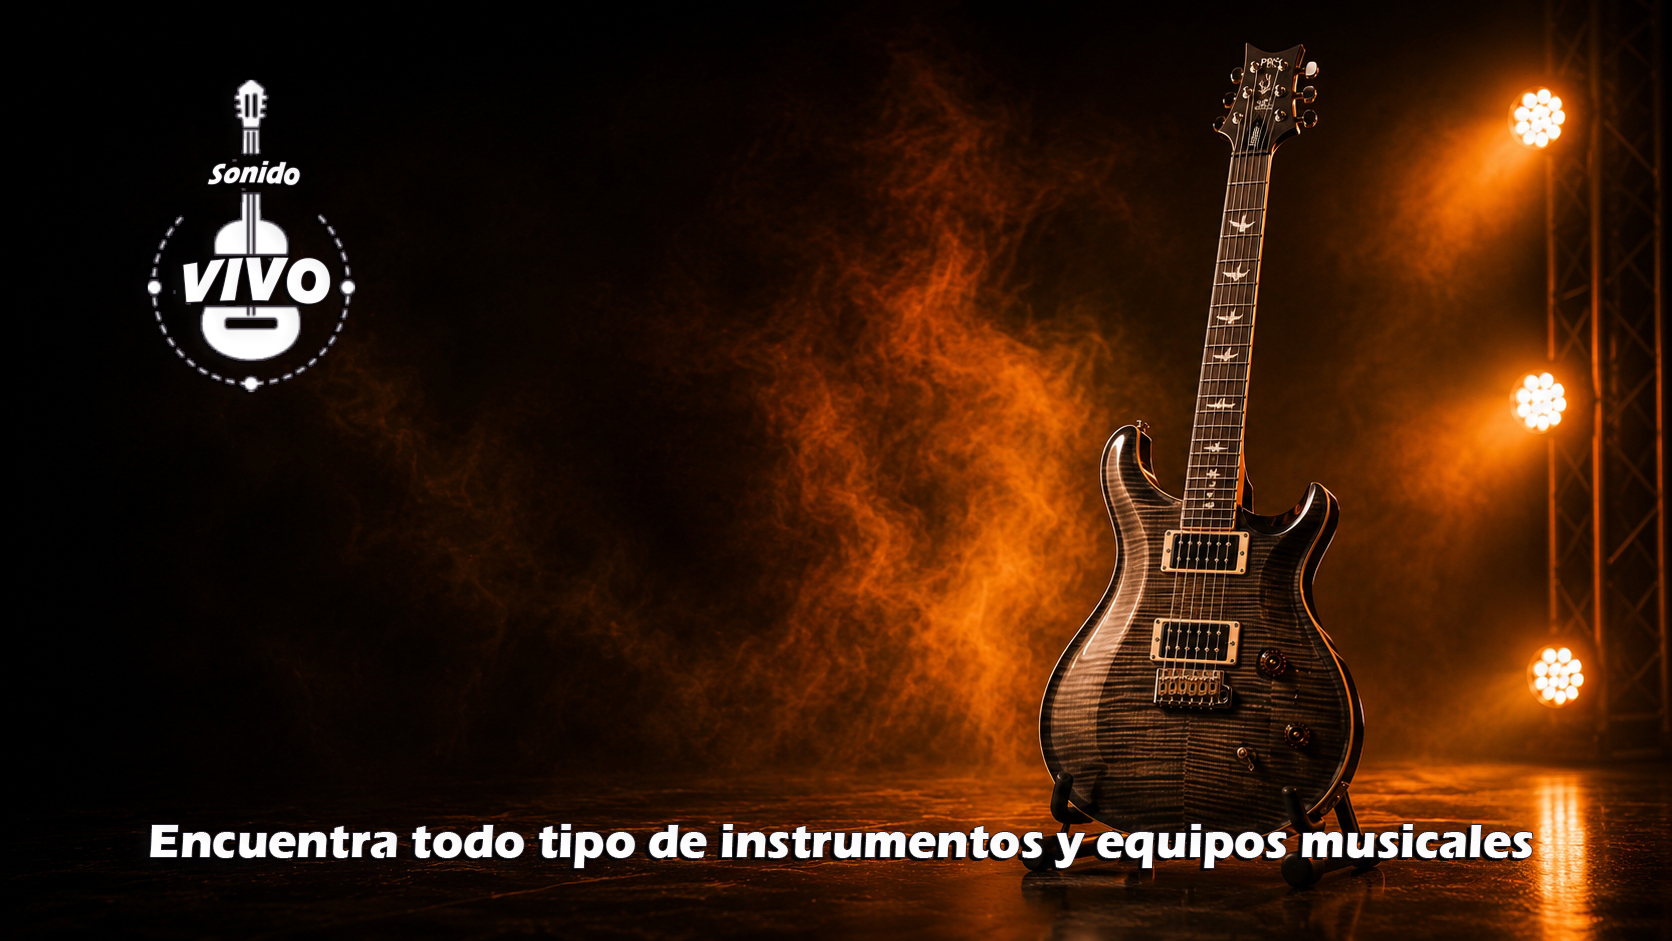
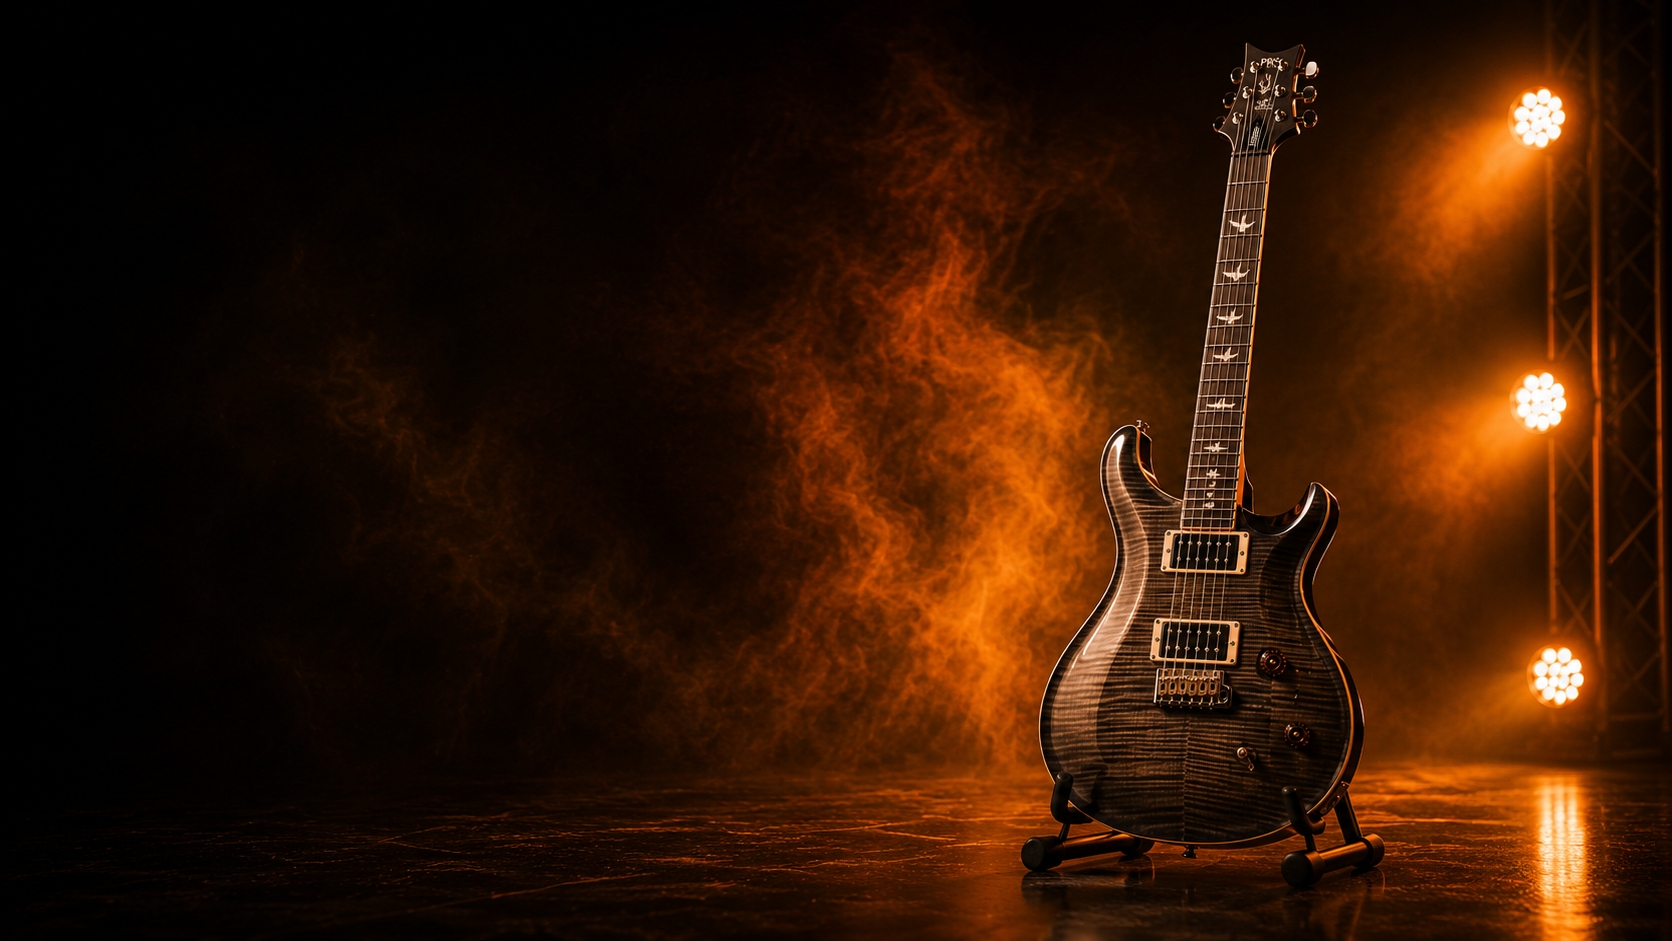
cambio de imagen

Changed region(s): [[0.0933, 0.8629, 0.933, 0.9245], [0.0933, 0.0925, 0.2177, 0.4315]]

diff --git a/main.html b/main.html
@@ -56,7 +56,7 @@
      data-bs-interval="3000">
 <div class="carousel-inner">
     <div class="carousel-item active">
-      <img src="imagenes/carrusel/instrumentos.avif" class="d-block w-100" height="800" alt="no disponible" >
+      <img src="imagenes/carrusel/b.avif" class="d-block w-100" height="800" alt="no disponible" >
       <div class="carousel-text">Aprovecha Septiembre con descuentos de hasta 40%</div>
     </div>
 
@@ -132,7 +132,7 @@
         </div>    
         <div class="col" style="font-style: oblique; color: rgb(110, 92, 75);">
             <div class="card" style="width: 18rem;">
-            <img src="imagenes/cards/6.jpg" class="card-img-top" alt="...">
+            <img src="imagenes/cards/b.jpg" class="card-img-top" alt="...">
             <div class="card-body">
                 <h5 class="card-title">Guitarra Eléctrica Stratocaster Squier Affinity Strat</h5>
                 <p>Cuerpo de álamo, mástil de arce, pastillas SSS.</p>

diff --git a/style.css b/style.css
@@ -17,6 +17,7 @@ body{
     left: 15%; 
     background-color: rgba(44, 62, 80, 0.8);
     color: rgb(247, 245, 250);
+    transform: translate(0,-300px); 
     padding: 3rem 2rem;
     font-size: 2rem;
     border-radius: 8px;
